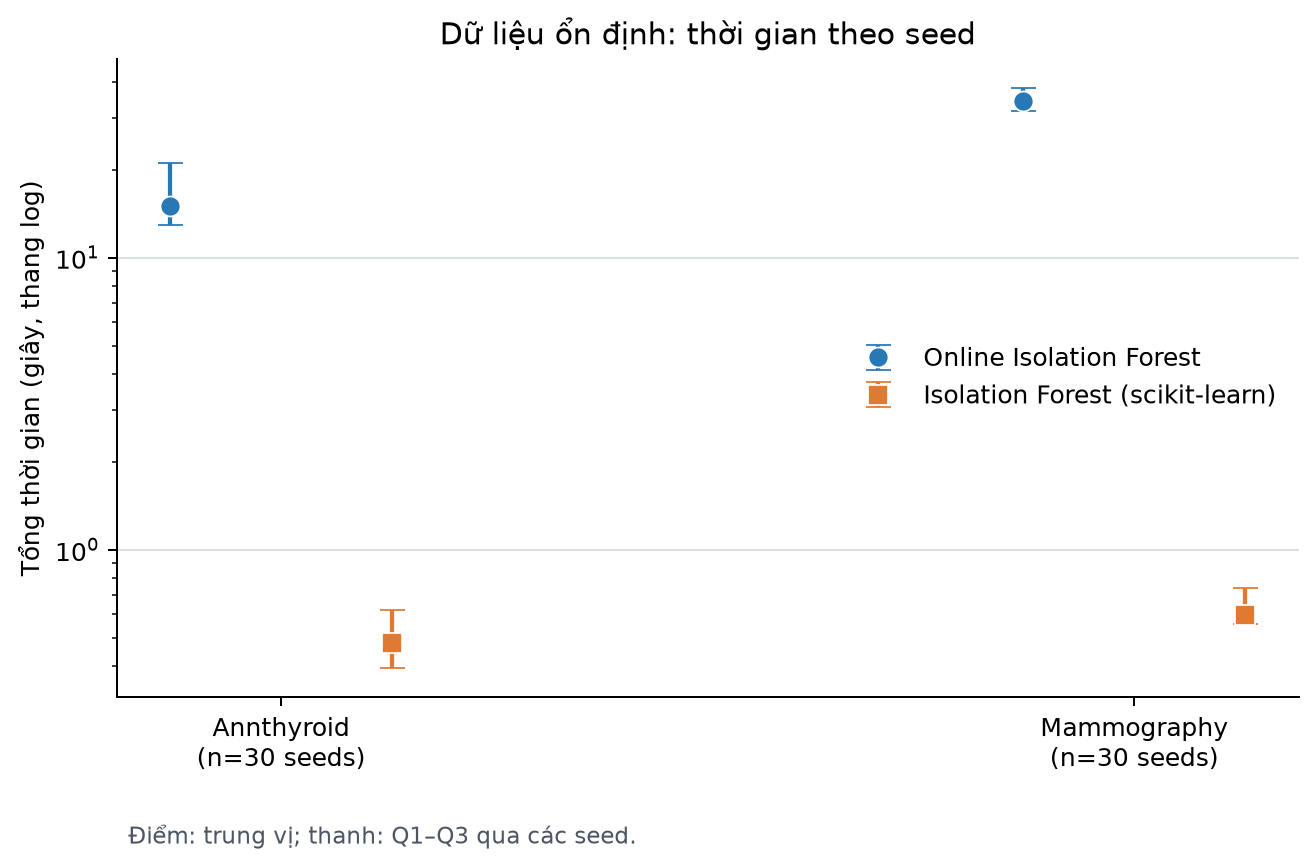
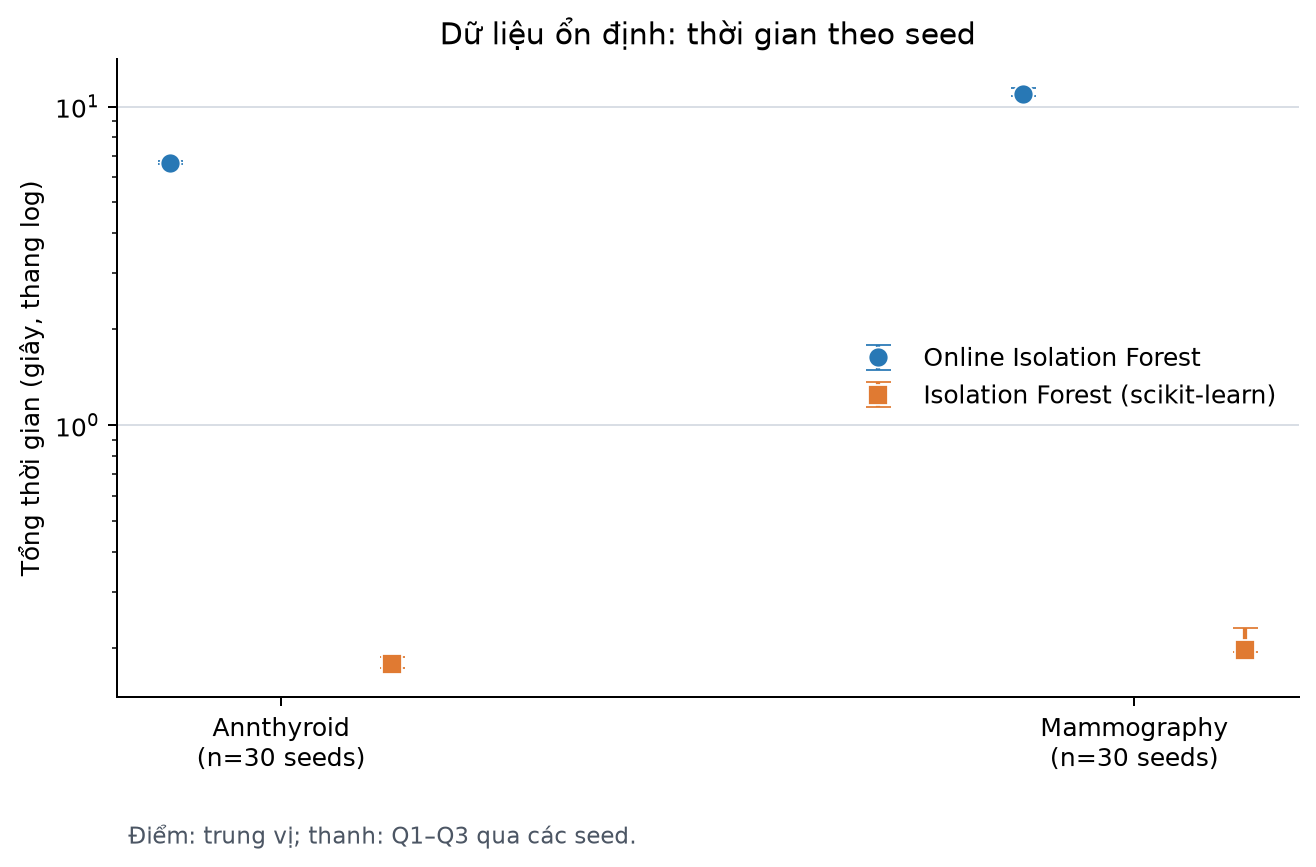
Record stationary results after forest F4

diff --git a/results/stationary.md b/results/stationary.md
@@ -2,28 +2,28 @@
 
 **Thực hiện:** 2 bộ dữ liệu × 2 phương pháp × 30 seed (0–29) = 120 run. Mỗi run có
 `config.json`, `metrics.json` và `predictions.csv`; tổng cộng 120 tệp của mỗi loại
-được lưu tại [`results/raw/stationary-seedblock/`](raw/stationary-seedblock/).
+được lưu tại [`results/raw/stationary-f4/`](raw/stationary-f4/).
 Thư mục kết quả thô được Git bỏ qua. Bảng tổng hợp có tại
 [`stationary-summary.csv`](stationary-summary.csv); số liệu từng seed nằm trong
-`results/raw/stationary-seedblock/runs.csv`.
+`results/raw/stationary-f4/runs.csv`.
 
 <!-- W&B status begin -->
 **W&B:** 0/120 run được tải lên. Lúc hoàn tất các lượt chạy, chưa có tài khoản/API
 key W&B để xác thực. Các tệp kết quả vẫn được lưu cục bộ.
 <!-- W&B status end -->
 
-Các `config.json` ghi Git commit `32d594f47fb7ada4b0cf478ec6b6b783dff9ef7d`,
-chứa L1 (`ceeaed8`) và F1 (`6ac25e3`), cùng `git_worktree_dirty=true`. Seed cây
-OIF cho run seed `s` nằm trong khoảng `32 × s` đến `32 × s + 31`; các khoảng
-seed của 30 run không giao nhau.
+Các `config.json` ghi Git commit `54f1c48d4213cafbc7b7d68d37c6c4e54dd8bc30`,
+chứa L1 (`ceeaed8`), F1 (`6ac25e3`) và F4; `git_worktree_dirty=false`. Với run
+seed `s`, forest nhận seed `s`, cây thứ `i` nhận `32 × s + i`; các dải seed
+không giao nhau giữa 30 run.
 
 ## Giao thức
 
 Mỗi seed tạo một hoán vị mẫu dùng chung cho Online Isolation Forest (OIF) và
 Isolation Forest của scikit-learn. 30% đầu làm warm-up; phần còn lại được chấm
 theo lô 100 mẫu. OIF chấm điểm trước rồi cập nhật từng lô, dùng 32 cây, cửa sổ
-`ω=2048` và `η=32`. Seed rừng OIF là `32 × seed`; cây thứ `i` dùng seed
-`32 × seed + i`. Baseline scikit-learn dùng 100 cây, fit một lần trên warm-up
+`ω=2048` và `η=32`. Forest nhận seed thử nghiệm `s`; cây thứ `i` dùng seed
+`32 × s + i`. Baseline scikit-learn dùng 100 cây, fit một lần trên warm-up
 và giữ cố định. Nhãn chỉ được dùng để tính ROC-AUC và average precision (AP).
 
 | Bộ dữ liệu | Tổng dòng | Warm-up | Dòng được chấm mỗi seed | Seed |
@@ -38,19 +38,19 @@ fit/cập nhật và chấm điểm, đơn vị giây.
 
 | Bộ dữ liệu | Phương pháp | Run | ROC-AUC median [Q1; Q3] | AP median | Tổng thời gian median (s) | W&B (đã tải/tổng) |
 |---|---|---:|---:|---:|---:|---:|
-| Annthyroid | OIF | 30 | 0,7468 [0,7117; 0,7928] | 0,2757 | 15,0283 | 0/30 |
-| Annthyroid | Isolation Forest (scikit-learn) | 30 | 0,8187 [0,8044; 0,8338] | 0,3077 | 0,4776 | 0/30 |
-| Mammography | OIF | 30 | 0,8805 [0,8675; 0,8913] | 0,2344 | 34,4144 | 0/30 |
-| Mammography | Isolation Forest (scikit-learn) | 30 | 0,8633 [0,8517; 0,8698] | 0,1920 | 0,5987 | 0/30 |
+| Annthyroid | OIF | 30 | 0,7468 [0,7117; 0,7928] | 0,2757 | 6,6397 | 0/30 |
+| Annthyroid | Isolation Forest (scikit-learn) | 30 | 0,8187 [0,8044; 0,8338] | 0,3077 | 0,1775 | 0/30 |
+| Mammography | OIF | 30 | 0,8805 [0,8675; 0,8913] | 0,2344 | 10,9845 | 0/30 |
+| Mammography | Isolation Forest (scikit-learn) | 30 | 0,8633 [0,8517; 0,8698] | 0,1920 | 0,1971 | 0/30 |
 
 ## Chênh lệch giữa hai phương pháp
 
 - **Annthyroid:** ROC-AUC OIF thấp hơn 0,0719 (0,7468 so với 0,8187); AP thấp hơn
-  0,0320 (0,2757 so với 0,3077). Tổng thời gian trung vị là 15,0283 giây với OIF
-  và 0,4776 giây với baseline.
+  0,0320 (0,2757 so với 0,3077). Tổng thời gian trung vị là 6,6397 giây với OIF
+  và 0,1775 giây với baseline.
 - **Mammography:** ROC-AUC OIF cao hơn 0,0173 (0,8805 so với 0,8633); AP cao hơn
-  0,0424 (0,2344 so với 0,1920). Tổng thời gian trung vị là 34,4144 giây với OIF
-  và 0,5987 giây với baseline.
+  0,0424 (0,2344 so với 0,1920). Tổng thời gian trung vị là 10,9845 giây với OIF
+  và 0,1971 giây với baseline.
 
 OIF cập nhật 32 cây xuyên suốt phần đánh giá; baseline chỉ fit trên warm-up rồi
 giữ cố định. Các thời gian trên đo hai quy trình này.

diff --git a/slides/phase2-phuc.md b/slides/phase2-phuc.md
@@ -4,7 +4,7 @@ Mỗi slide có nội dung, hình/bảng, speaker notes và nguồn IEEE. Ký hi
 code), `k` là độ sâu, `R` là miền bao, `τ` là số cây, `ω` là cỡ cửa sổ. Thí nghiệm gồm 120 run
 (2 bộ dữ liệu × 2 phương pháp ×
 30 seed); 120 `config.json`, 120 `metrics.json` và 120 `predictions.csv` được lưu tại
-[`results/raw/stationary-seedblock/`](../results/raw/stationary-seedblock/).
+[`results/raw/stationary-f4/`](../results/raw/stationary-f4/).
 Kết quả tổng hợp nằm ở [`results/stationary.md`](../results/stationary.md) và
 [`results/stationary-summary.csv`](../results/stationary-summary.csv).
 
@@ -234,12 +234,12 @@ Research*, vol. 12, pp. 2825–2830, 2011.
 
 | Bộ dữ liệu | Phương pháp | ROC-AUC nhóm, median [Q1; Q3] | AP median | Tổng thời gian median (s) |
 |---|---|---:|---:|---:|
-| Annthyroid | OIF | 0,747 [0,712; 0,793] | 0,276 | 15,03 |
-| Annthyroid | Isolation Forest (scikit-learn) | 0,819 [0,804; 0,834] | 0,308 | 0,48 |
-| Mammography | OIF | 0,881 [0,867; 0,891] | 0,234 | 34,41 |
-| Mammography | Isolation Forest (scikit-learn) | 0,863 [0,852; 0,870] | 0,192 | 0,60 |
+| Annthyroid | OIF | 0,747 [0,712; 0,793] | 0,276 | 6,64 |
+| Annthyroid | Isolation Forest (scikit-learn) | 0,819 [0,804; 0,834] | 0,308 | 0,18 |
+| Mammography | OIF | 0,881 [0,867; 0,891] | 0,234 | 10,98 |
+| Mammography | Isolation Forest (scikit-learn) | 0,863 [0,852; 0,870] | 0,192 | 0,20 |
 
-*Bảng 4 oIFOR: Annthyroid 0,685; Mammography 0,854 [1]. Run cục bộ: [`stationary-seedblock`](../results/raw/stationary-seedblock/).*
+*Bảng 4 oIFOR: Annthyroid 0,685; Mammography 0,854 [1]. Run cục bộ: [`stationary-f4`](../results/raw/stationary-f4/).*
 
 <!-- W&B status begin -->
 **W&B:** 0/120 run được tải lên; hiện chưa có tài khoản/API key để xác thực.
@@ -262,9 +262,9 @@ Trong 30 seed, ROC-AUC trung vị của OIF và Isolation Forest lần lượt l
 
 So với ROC-AUC oIFOR trong Bảng 4 (0,685 Annthyroid; 0,854 Mammography), kết quả OIF nhóm chênh +0,0618 (+9,02%) và +0,0265 (+3,10%). Thí nghiệm nhóm dùng warm-up 30%, baseline cố định và 7.200 dòng Annthyroid; bài báo dùng toàn luồng, năm phương pháp trực tuyến và báo 6.832 dòng Annthyroid.
 
-Thời gian tổng trung vị là 15,0283 giây (OIF) và 0,4776 giây (baseline) trên Annthyroid; 34,4144 giây và 0,5987 giây trên Mammography. Baseline fit một lần trên warm-up; OIF cập nhật 32 cây trong quá trình đánh giá. Thời gian được tính bằng giây và gồm fit/cập nhật cùng chấm điểm.
+Thời gian tổng trung vị là 6,6397 giây (OIF) và 0,1775 giây (baseline) trên Annthyroid; 10,9845 giây và 0,1971 giây trên Mammography. Baseline fit một lần trên warm-up; OIF cập nhật 32 cây trong quá trình đánh giá. Thời gian được tính bằng giây và gồm fit/cập nhật cùng chấm điểm.
 
-Runner dùng 30 seed (0–29); seed rừng là `32 × seed` và cây thứ `i` dùng `32 × seed + i`. Các tệp `config.json` ghi commit `32d594f` (có L1 `ceeaed8` và F1 `6ac25e3`) cùng `git_worktree_dirty=true`. Mỗi run có `config.json`, `metrics.json`, `predictions.csv`; tổng cộng 120 tệp của mỗi loại được lưu ở `results/raw/stationary-seedblock/`.
+Runner dùng 30 seed (0–29); forest nhận seed thử nghiệm `s`, cây thứ `i` dùng seed `32 × s + i`. Các tệp `config.json` ghi commit `54f1c48` (có L1 `ceeaed8`, F1 `6ac25e3` và F4) cùng `git_worktree_dirty=false`. Mỗi run có `config.json`, `metrics.json`, `predictions.csv`; tổng cộng 120 tệp của mỗi loại được lưu ở `results/raw/stationary-f4/`. AUC và AP median trùng lượt seedblock trước do lượt đó đã dùng cùng dải seed; lượt này chốt phép cấp seed trong forest và đo lại thời gian.
 
 [1] F. Leveni, G. Weigert Cassales, B. Pfahringer, A. Bifet, and G. Boracchi, "Online Isolation
 Forest," in *Proc. 41st Int. Conf. Machine Learning*, PMLR, vol. 235, pp. 27288–27298, 2024.
